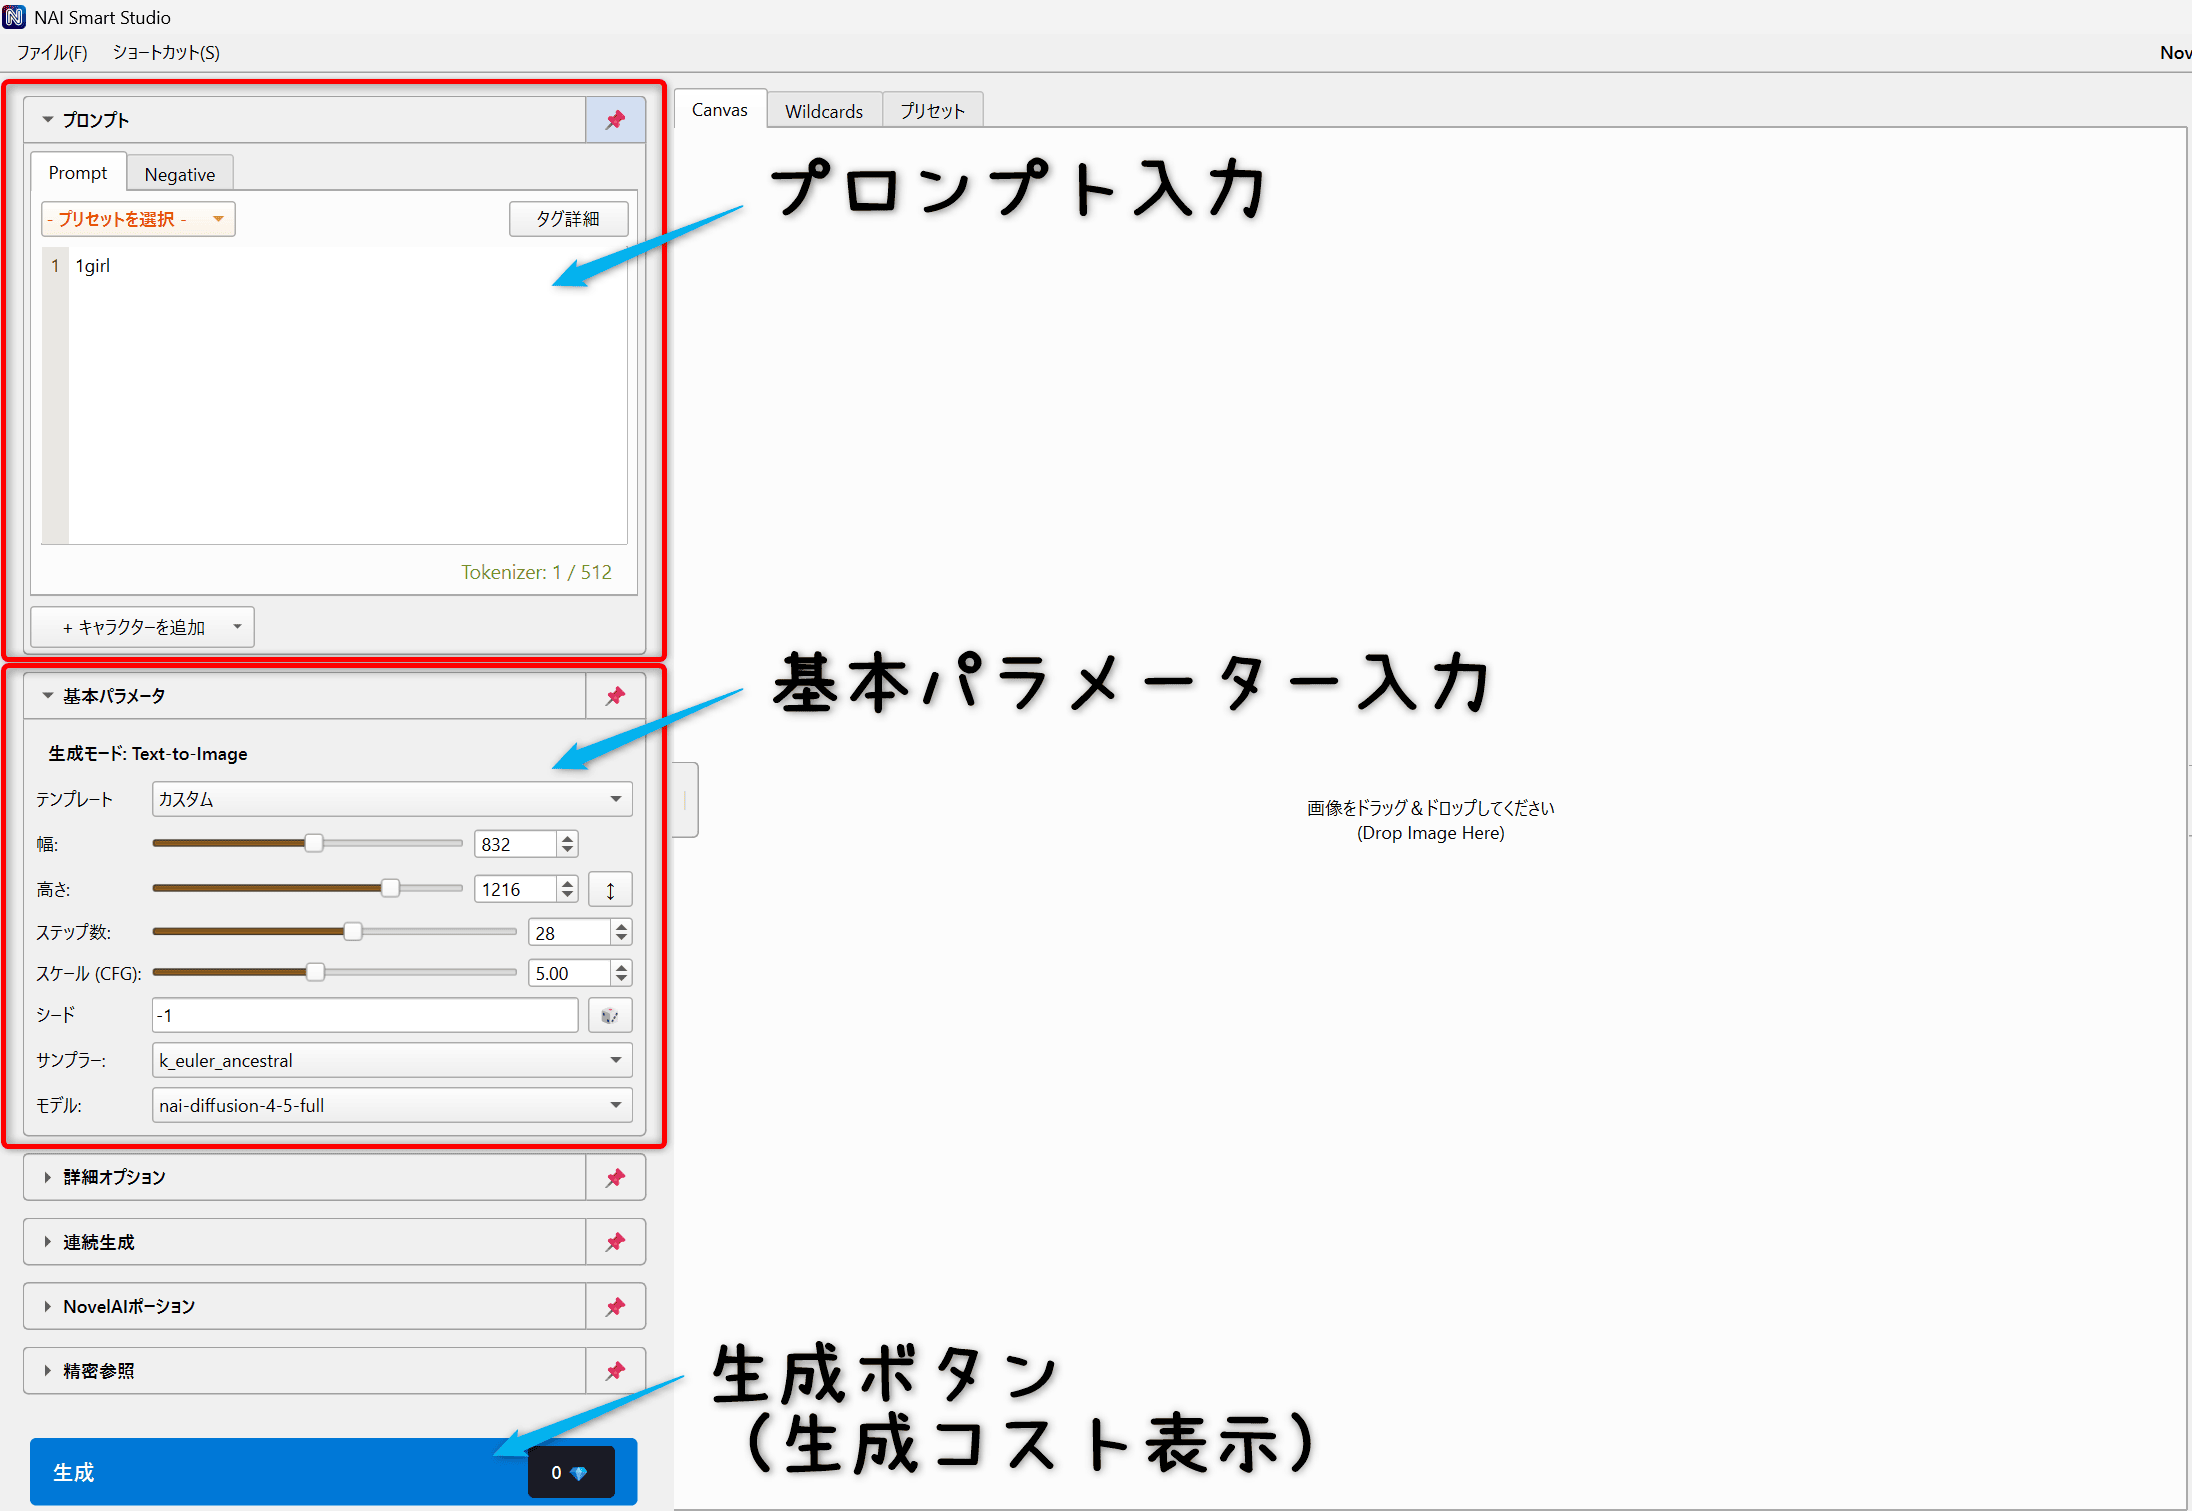
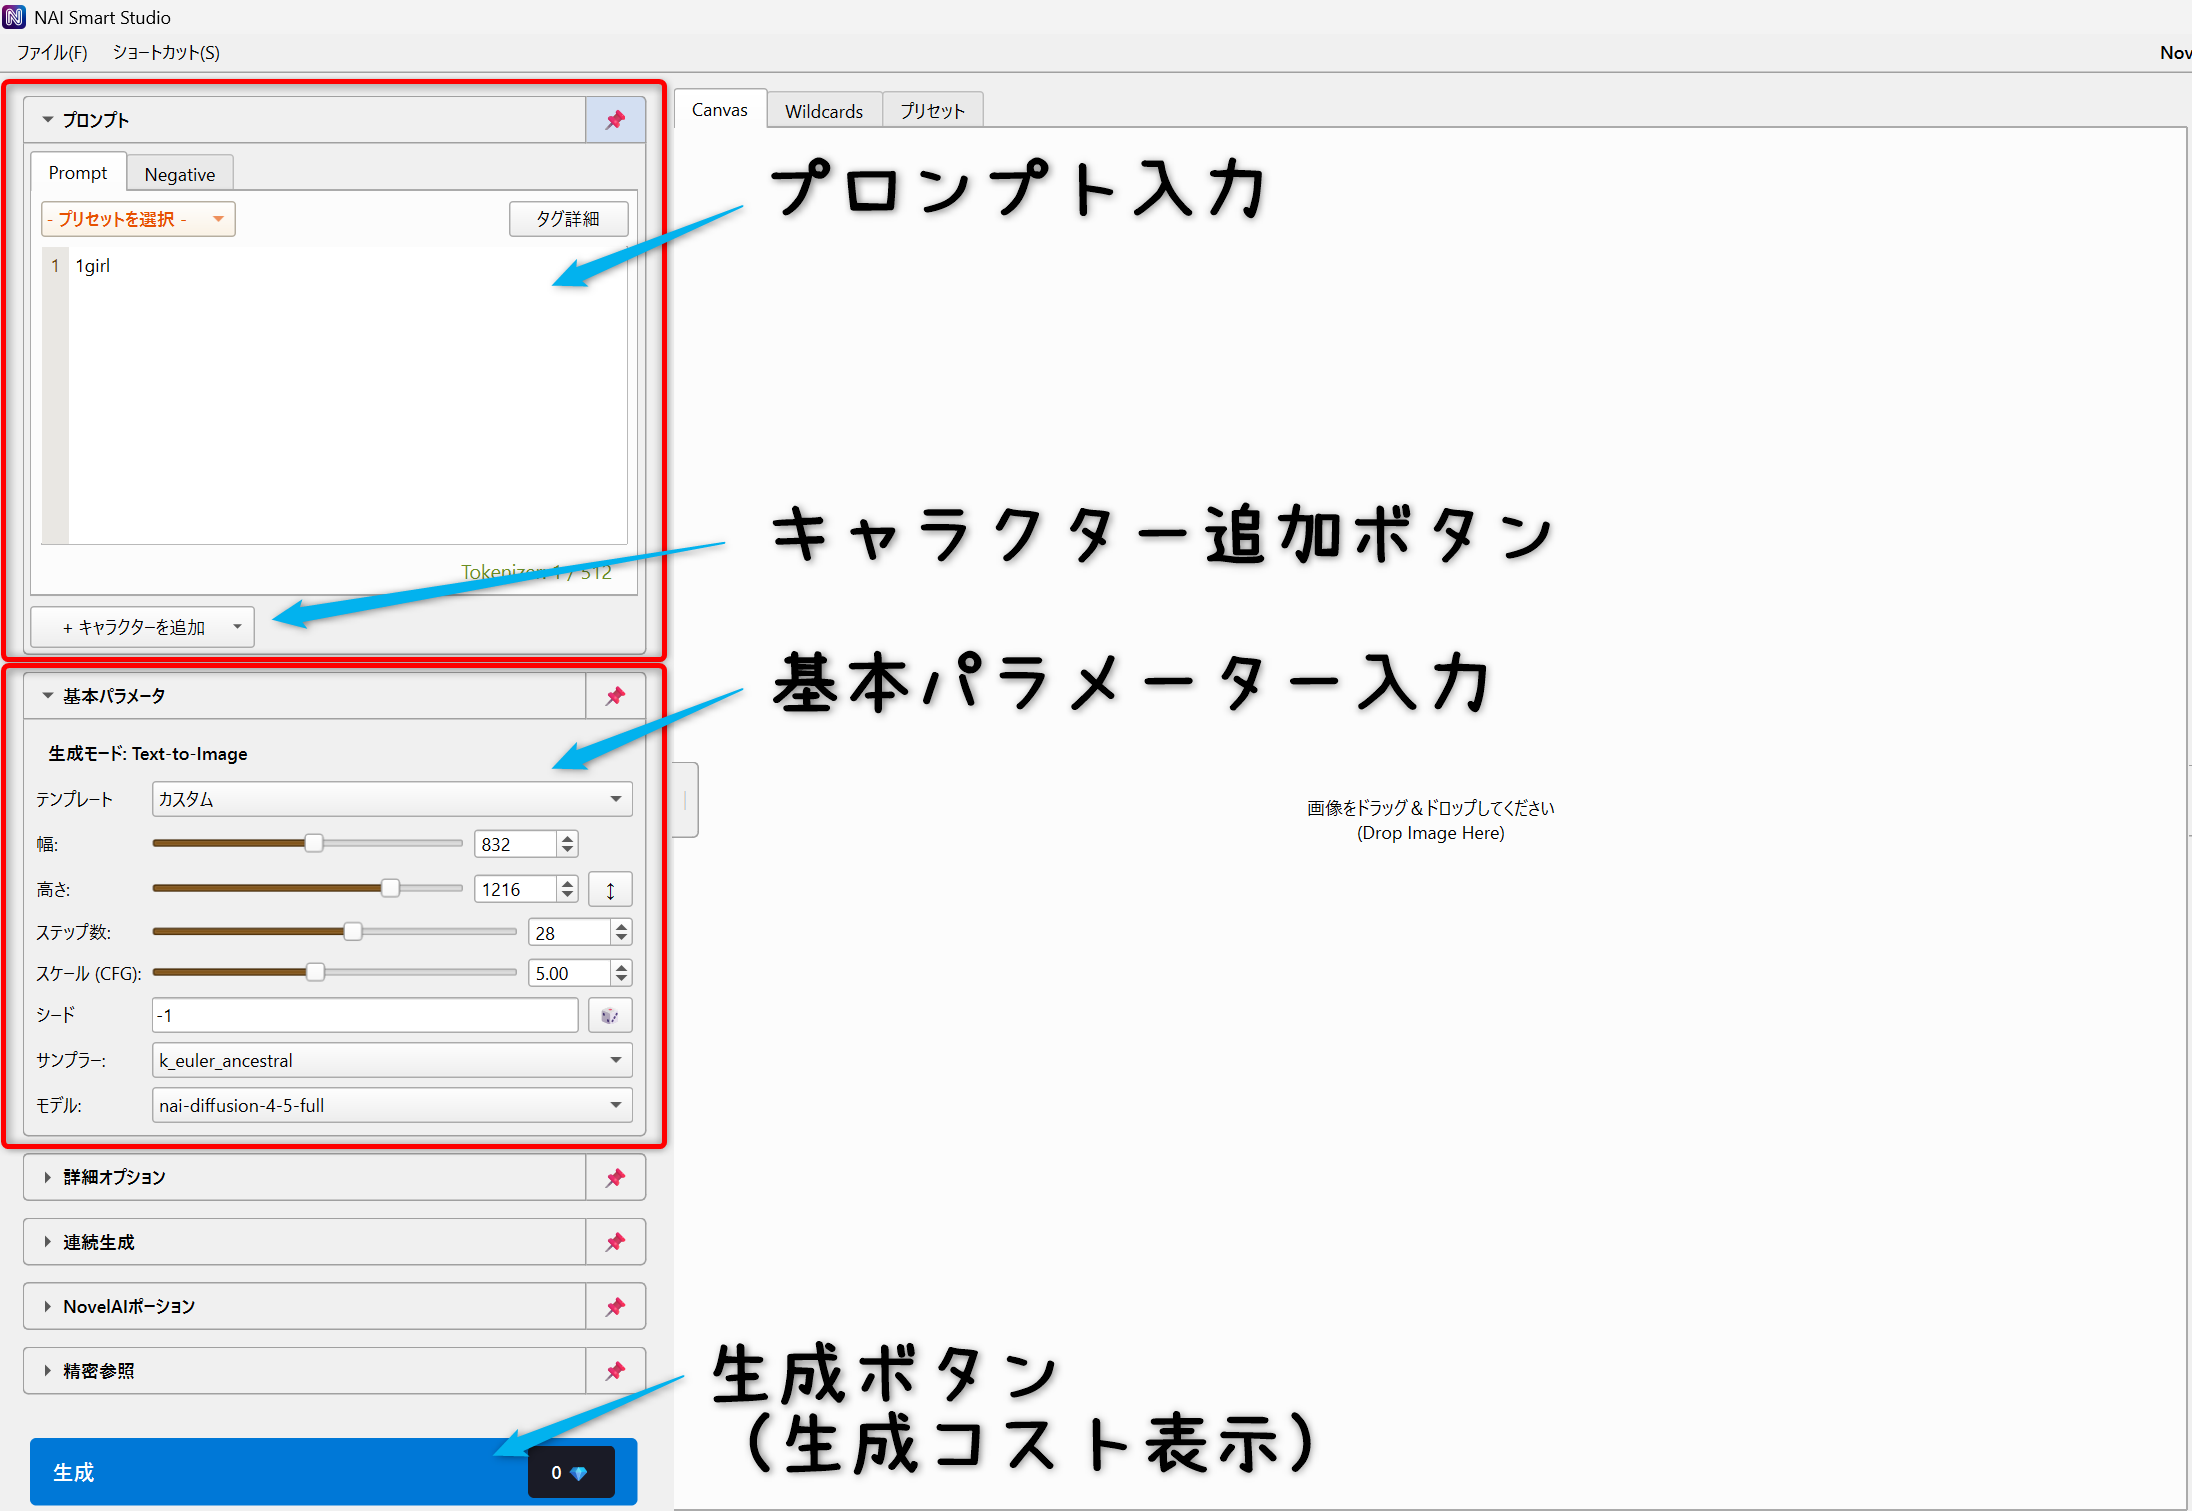
NAI manual 微調整

diff --git a/assets/manual/nai-smart-studio/nai-smart-studio_online_manual_j.html b/assets/manual/nai-smart-studio/nai-smart-studio_online_manual_j.html
@@ -50,7 +50,8 @@
             <p>
               NAI Smart
               Studioは、NovelAIでの画像生成をより快適に行うためのツールです。
-              Text-to-Image / Image-to-Image / Inpaint に加え、ワイルドカード、プロンプト検索、連続生成、かんたんアップスケールなど、公式UIにはない便利な機能を提供します。
+              Text-to-Image / Image-to-Image / Inpaint
+              に加え、ワイルドカード、プロンプト検索、連続生成、かんたんアップスケールなど、公式UIにはない便利な機能を提供します。
             </p>
             <div class="note">
               <strong>注意:</strong> 基本的な生成パラメータ（Steps, Scale,
@@ -65,11 +66,17 @@
             <h3>画面構成</h3>
             <p>画面は3つのエリアに分かれています。</p>
             <ul>
-              <li><strong>左パネル</strong>: プロンプトやパラメーターの設定</li>
+              <li>
+                <strong>左パネル</strong>:
+                プロンプトやパラメーターの設定パネル（横幅の調整が可能です）。
+              </li>
               <li>
                 <strong>中央パネル</strong>: Canvas（キャンバス）と各種タブ
               </li>
-              <li><strong>右パネル</strong>: 生成履歴</li>
+              <li>
+                <strong>右パネル</strong>:
+                生成履歴パネル（表示/非表示の切り替えが可能です）
+              </li>
             </ul>
             <img src="images/000.png" alt="Main UI" class="screenshot" />
           </section>
@@ -142,7 +149,7 @@
 
             <h3>キャラクタープロンプト</h3>
             <p>
-              複数のキャラクターを描く場合、「キャラを追加」ボタンから個別のプロンプト欄を追加できます。
+              複数のキャラクターを描く場合、「キャラクターを追加」ボタンから個別のプロンプト欄を追加できます。<br />
               これにより、各キャラクターの特徴を分けて指定できます。
             </p>
 
@@ -155,8 +162,7 @@
             <h3>生成コスト表示</h3>
             <p>
               生成ボタンの右側に、推定Anlasコストが表示されます。
-              解像度やステップ数によってコストが変動します<br />（基本Opusプラン想定の設定のため、Tablet,
-              Scrollプランの場合、ズレが発生する可能性があります）。
+              解像度やステップ数によってコストが変動します。<br />
             </p>
           </section>
 
@@ -189,12 +195,12 @@
               </li>
               <li>
                 <strong>メタデータをインポート</strong>:
-                メタデータをインポートし、画像をキャンパスにセットします
+                画像のメタデータをインポートします（インポートする情報は選択可能）。
               </li>
             </ul>
             <p>
-              右パネルの履歴から画像を通常クリックで選択した場合は「Image to
-              image / inpaint (画像をキャンパスにセット)」になります。
+              右パネルの履歴から画像を通常選択した場合は「Image to image /
+              inpaint (画像をキャンパスにセット)」になります。
             </p>
           </section>
 
@@ -207,7 +213,7 @@
             <h3>Inpaint（部分修正）</h3>
             <p>
               画像の一部だけを描き直したい場合は、マスクを描画します。
-              黒く塗られた部分だけが再生成されます。<br />左ドラック：マスク描画、右ドラッグ：マスク消去
+              青く塗られた部分だけが再生成されます。<br />左ドラック：マスク描画、右ドラッグ：マスク消去
             </p>
             <ul>
               <li><strong>ブラシ</strong>: フリーハンドでマスクを描画</li>
@@ -255,15 +261,20 @@
             <h3>使い方</h3>
             <ol>
               <li>Canvasに画像を読み込みます（履歴クリックでも可）。</li>
-              <li>中央下部の「かんたんアップスケール」を押してモードを切り替えます。</li>
+              <li>
+                中央下部の「かんたんアップスケール」を押してモードを切り替えます。
+              </li>
               <li>アップスケーラー、倍率、強度を調整します。</li>
               <li>「生成」ボタンでアップスケールを実行します。</li>
             </ol>
             <p>
-              出力画像は通常生成と同じく <code>output/YYYY-MM-DD/</code> に保存されます。
+              出力画像は通常生成と同じく
+              <code>output/YYYY-MM-DD/</code> に保存されます。
             </p>
             <div class="note">
-              画像ファイル名は <code>nai_sd_upscale_YYYYMMDD_HHMMSS.png</code> 形式で保存されます。
+              画像ファイル名は
+              <code>nai_sd_upscale_YYYYMMDD_HHMMSS.png</code>
+              形式で保存されます。
             </div>
           </section>
 
@@ -313,7 +324,9 @@
                 「＋」ボタンをクリックして画像やポーションを追加します（複数追加可能）。
               </li>
               <li>参照強度と情報抽出度を調整します。</li>
-              <li>その後、生成ボタンを押します（スロット上の「調合」ボタンを押してない場合、自動で調合が行われます）</li>
+              <li>
+                その後、生成ボタンを押します（スロット上の「調合」ボタンを押してない場合、自動で調合が行われます）
+              </li>
             </ol>
 
             <h3>パラメーター</h3>
@@ -333,8 +346,14 @@
               よく使う参照画像の組み合わせはセットとして保存できます。保存したセットは後から読み込んで再利用できます。
             </p>
             <ul>
-              <li><strong>.naiv4vibe / .naiv4vibeBundle</strong>: ポーションセットの保存・読み込みに対応</li>
-              <li><strong>画像へのBundle埋め込み</strong>: 画像ファイルへポーション情報を含めて保存可能</li>
+              <li>
+                <strong>.naiv4vibe / .naiv4vibeBundle</strong>:
+                ポーションセットの保存・読み込みに対応
+              </li>
+              <li>
+                <strong>画像へのBundle埋め込み</strong>:
+                画像ファイルへポーション情報を含めて保存可能
+              </li>
             </ul>
           </section>
 
@@ -423,11 +442,11 @@
               <li>
                 YAMLのワイルドカードファイルは key: list 形式で階層化できます
               </li>
-              <li>詳しくはユーザーマニュアル.mdを参照ください</li>
+              <li>詳しくはサンプルのyamlファイルを参照ください</li>
             </ul>
             <div class="note">
               中央パネルの「Wildcards」タブから、既存ファイルの内容確認ができます
-              （内容編集は後日アップデートで対応予定です）。
+              （ファイル編集は後日アップデートで対応予定です）。
             </div>
           </section>
 
@@ -514,7 +533,8 @@
             </p>
 
             <p>
-              <strong>「検索結果を生成キューに追加」</strong> ボタンは、結果をシャッフル順で<strong>1000件ずつ</strong>キューに追加します。<br />
+              <strong>「検索結果を生成キューに追加」</strong>
+              ボタンは、結果をシャッフル順で<strong>1000件ずつ</strong>キューに追加します。<br />
               「生成」ボタンを押すと、キューに登録されたプロンプトが順番に使用されます。<br />
               モデル、画像サイズ、Steps等のパラメーターは<strong>現在のメイン画面の設定</strong>が適用されます。
             </p>
@@ -538,7 +558,8 @@
               </li>
               <li>
                 <strong>設定</strong>:
-                これら入力補助の設定はファイル→設定→入力補助 (Assistance) タブから変更可能です。<br />
+                これら入力補助の設定はファイル→設定→入力補助 (Assistance)
+                タブから変更可能です。<br />
                 またプロンプト欄のフォントや文字サイズも変更可能です。
               </li>
             </ul>
@@ -549,7 +570,9 @@
             />
             <h3>Eagle 連携</h3>
             <p>
-              画像管理ソフト「Eagle」への自動保存設定です。生成と同時に、プロンプト情報もタグとしてEagleへ送信されます。
+              画像管理ソフト「Eagle」への連携設定です。プロンプト情報もタグとしてEagleへ送信されます。<br />
+              ・履歴から右クリックで選択した画像のみをEagleへ送信する<br />
+              ・生成した全ての画像をEagleへ送信する
             </p>
             <img
               src="images/011.png"
@@ -559,8 +582,14 @@
 
             <h3>補助機能</h3>
             <ul>
-              <li><strong>生成中プレビュー</strong>: 設定の「一般」で有効化すると、生成中の途中プレビューをCanvasに表示できます。</li>
-              <li><strong>起動時アップデート確認</strong>: 設定の「一般」で有効化すると、起動時に新バージョン確認を行います。</li>
+              <li>
+                <strong>生成中プレビュー</strong>:
+                設定の「一般」で有効化すると、生成中の途中プレビューをCanvasに表示できます。
+              </li>
+              <li>
+                <strong>起動時アップデート確認</strong>:
+                設定の「一般」で有効化すると、起動時に新バージョン確認を行います。
+              </li>
             </ul>
 
             <h3>設定画面一覧</h3>
@@ -598,7 +627,9 @@
             <h3>生成・実行</h3>
             <ul>
               <li><span class="kbd">Ctrl + Enter</span>: 生成開始</li>
-              <li><span class="kbd">Ctrl + Shift + Enter</span>: 連続生成開始</li>
+              <li>
+                <span class="kbd">Ctrl + Shift + Enter</span>: 連続生成開始
+              </li>
             </ul>
 
             <h3>キャンバス / マスク</h3>
@@ -620,10 +651,20 @@
             <h3>ファイル操作</h3>
             <ul>
               <li><span class="kbd">Ctrl + O</span>: 画像を開く</li>
-              <li><span class="kbd">Ctrl + S</span>: 名前を付けて保存（画像選択時）</li>
-              <li><span class="kbd">Ctrl + C</span>: 画像をコピー（画像選択時）</li>
-              <li><span class="kbd">Ctrl + E</span>: Eagleに保存（画像選択時）</li>
-              <li><span class="kbd">Ctrl + Shift + E</span>: 保存先フォルダを開く（画像選択時）</li>
+              <li>
+                <span class="kbd">Ctrl + S</span>:
+                名前を付けて保存（画像選択時）
+              </li>
+              <li>
+                <span class="kbd">Ctrl + C</span>: 画像をコピー（画像選択時）
+              </li>
+              <li>
+                <span class="kbd">Ctrl + E</span>: Eagleに保存（画像選択時）
+              </li>
+              <li>
+                <span class="kbd">Ctrl + Shift + E</span>:
+                保存先フォルダを開く（画像選択時）
+              </li>
             </ul>
           </section>
 
